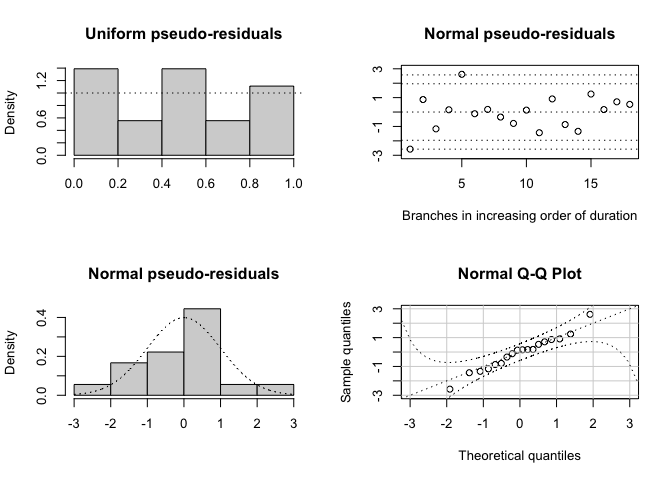
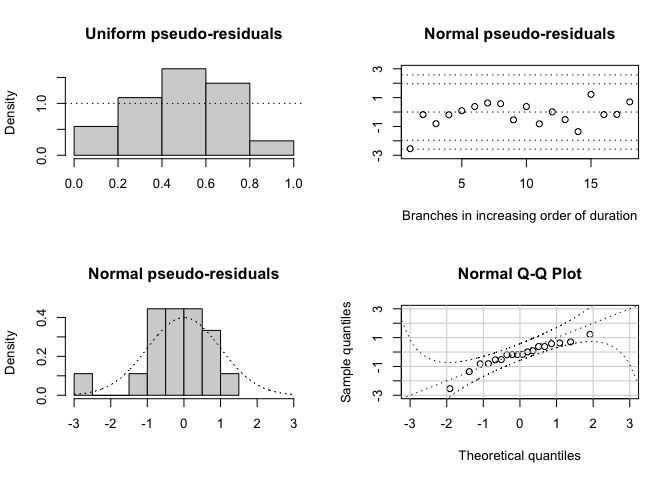
Posterior distribution of p-values based on posterior sample

diff --git a/README.md b/README.md
@@ -71,16 +71,13 @@ plotResid(r)
 
 ![](man/figures/unnamed-chunk-6-2.png)<!-- -->
 
+We can perform the validation:
+
 ``` r
-print(testResid(r))
-#> 
-#>  Anderson-Darling test of goodness-of-fit
-#>  Null hypothesis: Normal distribution
-#>  with parameters mean = 0.000, sd = 1.000
-#> 
-#> data:  n
-#> An = 0.36374, p-value = 0.8824
+validate(r)
 ```
+
+![](man/figures/unnamed-chunk-7-1.png)<!-- -->
 
 ## More information and getting help
 
